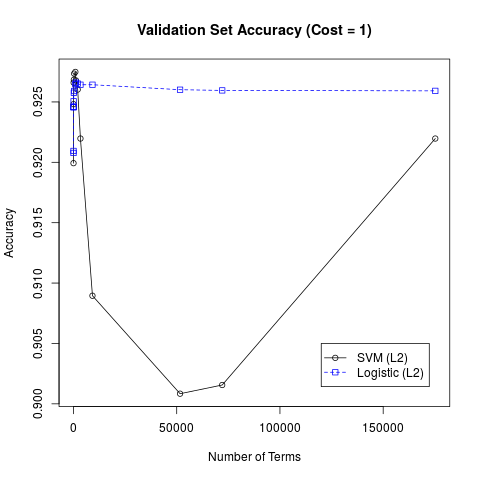
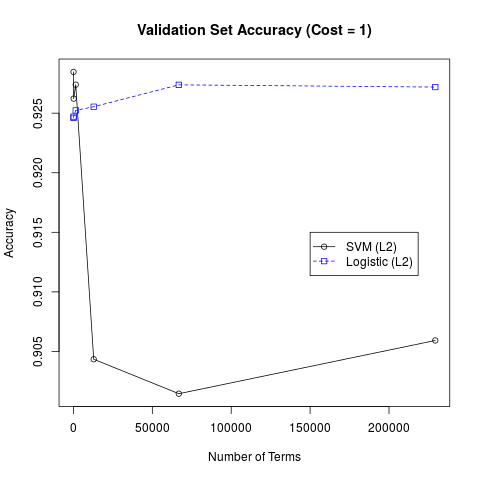
Adds report
This commit adds the template for our Assignment 2 writeup. It also
updates the number of terms graphs for SVM/logit for bag of words.
Minor updates to LDA.R.

diff --git a/assignment2report.tex b/assignment2report.tex
@@ -1,0 +1,48 @@
+\documentclass{sig-alternate-05-2015}
+
+\begin{document}
+\title{Predicting Censorship on Weibo}
+
+\numberofauthors{2}
+\author{
+  \alignauthor
+  Brian Tsay \\
+  \email{brtsay@ucsd.edu}
+  \alignauthor
+  John Kuk \\
+  \email{jskuk@ucsd.edu}
+}
+
+\date{1 December 2015}
+
+\maketitle
+
+% don't forget abstract
+\begin{abstract}
+  Put abstract here.
+\end{abstract}
+
+
+ \begin{CCSXML}
+<ccs2012>
+<concept>
+<concept_id>10010405.10010455</concept_id>
+<concept_desc>Applied computing~Law, social and behavioral sciences</concept_desc>
+<concept_significance>300</concept_significance>
+</concept>
+</ccs2012>
+\end{CCSXML}
+
+\ccsdesc[300]{Applied computing~Law, social and behavioral sciences}
+\printccsdesc
+
+\section{Dataset}
+
+\section{Predictive Task}
+
+\section{Model}
+
+\section{Literature}
+
+\section{Results}
+\end{document}
